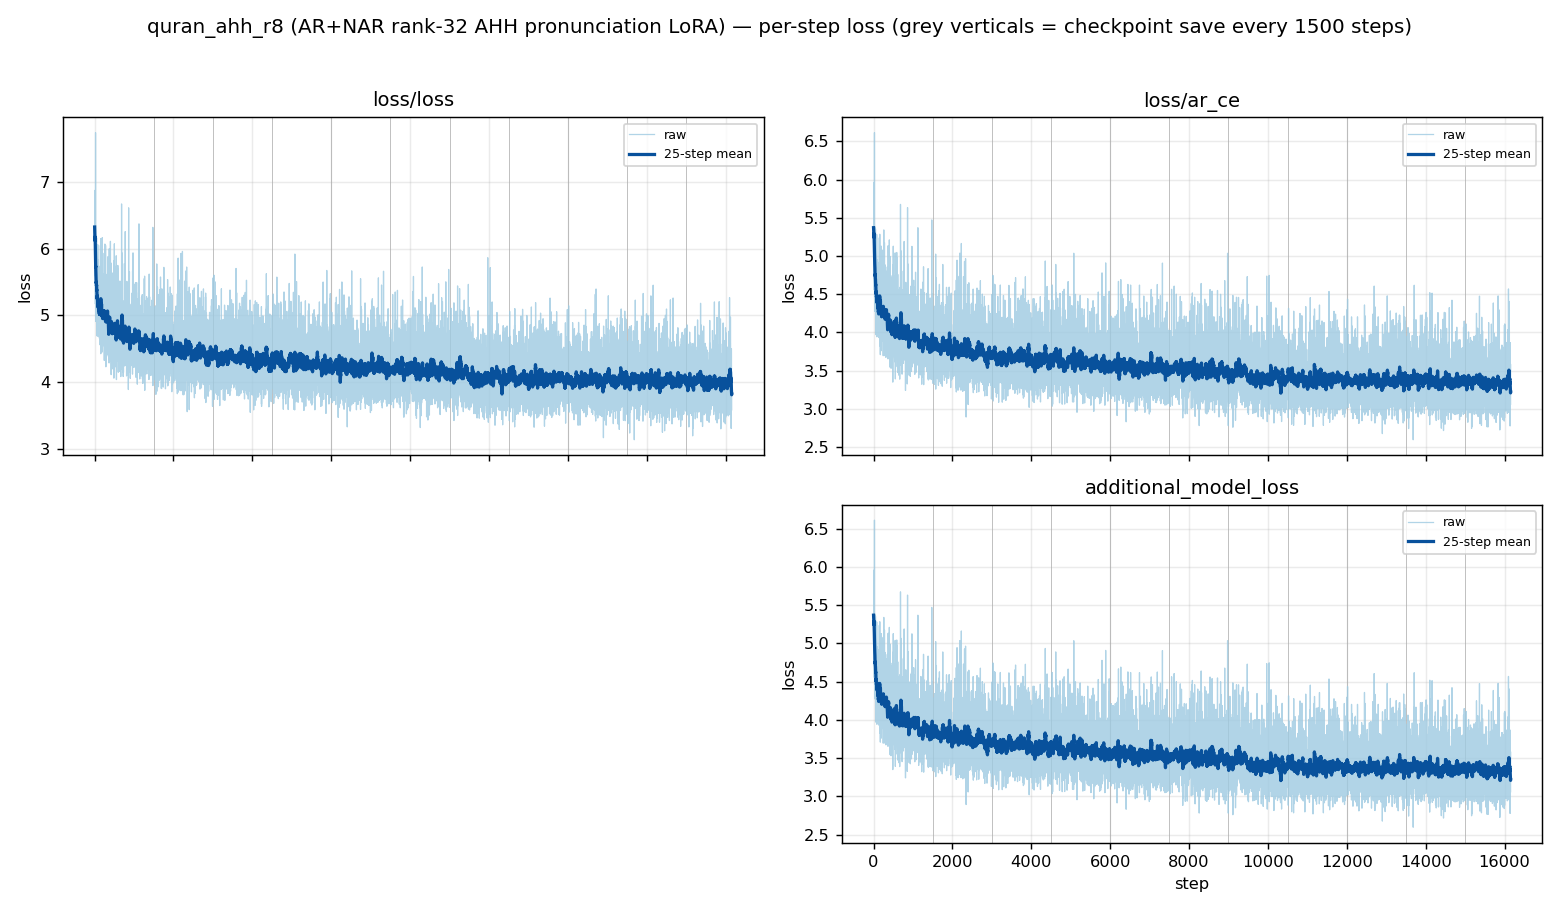
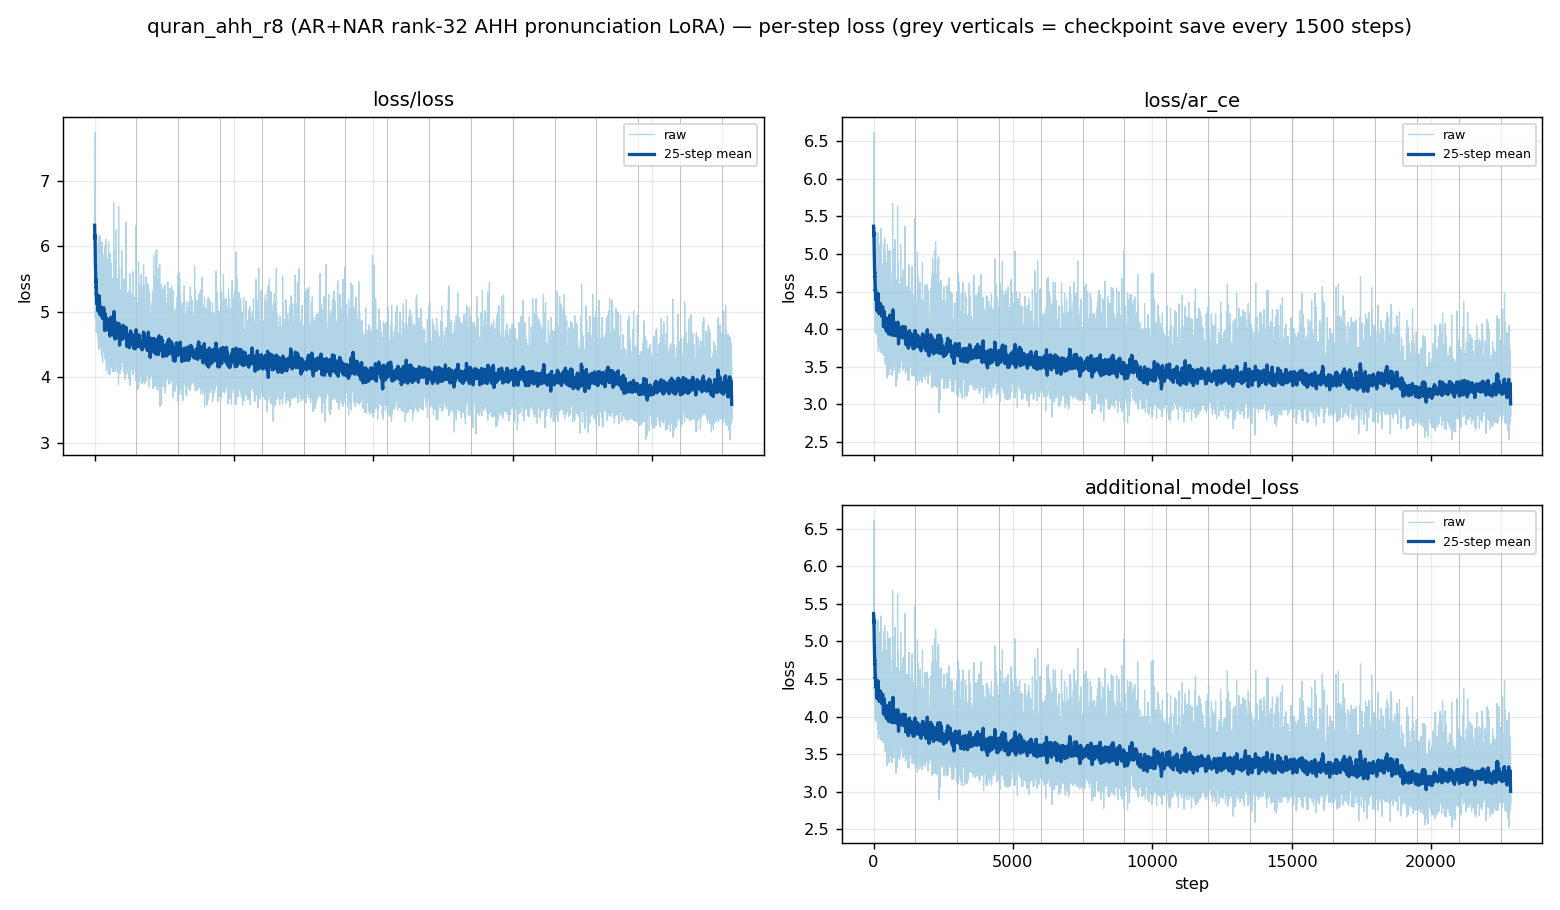
TRAINING_ANALYSIS: quran_ahh_r8_rank32 snapshot @ 22,855/28,467 (80.3%)
- regenerate plots + ANALYSIS.md at step 22,855 (was stale at 16,158)
- loss plateaued since ~19k; checkpoint window table + checkpoints list updated

diff --git a/TRAINING_ANALYSIS/quran_ahh_r8_rank32/ANALYSIS.md b/TRAINING_ANALYSIS/quran_ahh_r8_rank32/ANALYSIS.md
@@ -1,8 +1,9 @@
 # Training analysis — `quran_ahh_r8` **revised** (AR+NAR, rank 32, no KL)
 
-**LIVE SNAPSHOT** — captured **2026-10-05 ~18:46 UTC (21:46 Bahrain)** at **step 16,158 / 28,467
-(56.8%)**. The run is still training (pid 16301, started `2026-10-05T12:35:11`); this is *not* a
-final analysis. Charts produced by the parametrized `TRAINING_ANALYSIS/generate_plots.py`:
+**LIVE SNAPSHOT** — captured **2026-10-06 ~02:27 UTC (05:27 Bahrain)** at **step 22,855 / 28,467
+(80.3%)**. The run is still training (pid 37073; resumed `2026-10-06T01:09:51` from ckpt 19,500
+after the 2026-10-05 pause); this is *not* a final analysis. Charts produced by the parametrized
+`TRAINING_ANALYSIS/generate_plots.py`:
 
 ```bash
 cd /content/maqamrock-yue2-lora-finetuning
@@ -34,13 +35,13 @@ python TRAINING_ANALYSIS/generate_plots.py \
 | Dataset | `/content/quran_ahh_dataset/train` — **9,489 pairs** (AHH filtered, 3 reciters, single caption/clip, 50/50 simple/uthmani stratified); `steps: 28467` = **3 epochs** |
 | GPU | Colab **L4** (23,034 MiB) |
 | Caching | banked `_latent_cache.tar` — launch pass **< 1 s** (cache HIT, no re-encode) |
-| Steps done | **16,158 / 28,467 (56.8%)** at snapshot |
-| Step time | **median 1.249 s** (p10 1.216 / p90 1.744; max 5.804) → ~**0.73 steps/s** (0.73 recent) |
+| Steps done | **22,855 / 28,467 (80.3%)** at snapshot |
+| Step time | **median 1.238 s** (p10 1.207 / p90 1.763; max 4.719) → ~**0.75 steps/s** (0.75 recent) |
 | Save cadence | every **1500** steps (~34 min) |
 | Samples | **none** — grey verticals are checkpoint saves |
-| Checkpoints | `_000001500 … _000015000` (**10**) + `optimizer.pt` (step 15000) — local + GCS (verified); next save = **16500** |
-| GPU (training window) | mem p50 **8,976** / peak **9,394** MiB of 23,034; util p50 **53 %**, p90 100 %; temp p50 77 / max 80 °C; power p50 66 / max 75 W (limit 72) |
-| ETA | **~280 min (4.7 h)** at the recent rate → completion ~**23:26 UTC / 02:26 Bahrain** |
+| Checkpoints | `_000001500 … _000022500` (**15**) + `optimizer.pt` (step 22500) — local + GCS (verified); next save = **24000** |
+| GPU (resumed window) | mem p50 **8,430** / peak **8,730** MiB of 23,034; util p50 **48 %**, p90 100 %; temp p50 76 / max 80 °C; power p50 64 / max 75 W (limit 72) |
+| ETA | **~125 min (2.1 h)** at the recent rate → completion ~**04:32 UTC / 07:32 Bahrain** |
 | Health | clean — no tracebacks/OOM; VRAM flat; steady ~34 min save cadence |
 
 ## Charts
@@ -71,17 +72,23 @@ python TRAINING_ANALYSIS/generate_plots.py \
 | 13001–14000 | 4.0316 | 3.3737 | 0.6578 |
 | 14001–15000 | 4.0225 | 3.3626 | 0.6598 |
 | 15001–16000 | **3.9897** | **3.3396** | 0.6502 |
-| 16001–16158 | 4.0200 | 3.3550 | 0.6650 |
+| 16001–17000 | 3.9827 | 3.3323 | 0.6504 |
+| 17001–18000 | 3.9643 | 3.3166 | 0.6477 |
+| 18001–19000 | 3.9815 | 3.3294 | 0.6521 |
+| 19001–20000 | **3.8272** | **3.1780** | 0.6492 |
+| 20001–21000 | 3.8479 | 3.2006 | 0.6474 |
+| 21001–22000 | 3.8640 | 3.2143 | 0.6498 |
+| 22001–22855 | 3.8637 | 3.2210 | 0.6427 |
 
-First-50 vs last-50 means: `loss/loss` **5.8409 → 4.0739** (−1.767), `loss/ar_ce`
-**5.0275 → 3.3948** (−1.633), `additional_model_loss` identical. `loss/loss` minimum
-**3.1324 @ step 13684**.
+First-50 vs last-50 means: `loss/loss` **5.8409 → 3.8592** (−1.982), `loss/ar_ce`
+**5.0275 → 3.2093** (−1.818), `additional_model_loss` identical. `loss/loss` minimum
+**3.0433 @ step 22800**.
 
 Per-checkpoint 500-step windows (`loss/loss` mean) — the "is later training better?" read:
 
-| from step | 10,500 | 12,000 | 13,500 | 15,000 |
-|---|---|---|---|---|
-| `loss/loss` (next 500) | 4.0672 | 4.0242 | 4.0221 | **4.0027** |
+| from step | 15,000 | 16,500 | 18,000 | 19,500 | 21,000 | 22,500 |
+|---|---|---|---|---|---|---|
+| `loss/loss` (next 500) | 4.0024 | 3.9907 | 4.0014 | **3.8073** | 3.8653 | 3.8620 |
 
 ## Observations / flags
 
@@ -89,13 +96,14 @@ Per-checkpoint 500-step windows (`loss/loss` mean) — the "is later training be
    label, not a second loss). The NAR/flow term is visible only as the residual
    `loss/loss − ar_ce` ≈ **0.65–0.68** (0.776 → 0.674 over the run). Both experts train, but the
    log gives no clean separate read on the NAR.
-2. **`loss/ar_ce` keeps drifting down** (4.16 → 3.34) with a small **wobble around 13k**
-   (12001–13000 3.3674 → 13001–14000 3.3737 → 15001–16000 3.3396) — noise, not a plateau; the
-   latest full bin is the lowest yet.
-3. **Later checkpoints do keep improving on loss** (4.0672 @10.5k → 4.0027 @15k, ~1.6% better) —
-   the basis for the planned **c10500 vs c16500 listen**.
+2. **`loss/ar_ce` has largely flattened.** It drifted to ~3.32 by 17k, dropped to **3.1780**
+   (19001–20000), and has since held at **~3.20–3.22** — the descent has plateaued over the last
+   ~4k steps (a small step-down at the 19,500 resume, then flat).
+3. **Later checkpoints improved, then plateaued.** Next-500 means: 4.0024 @15k → **3.8073 @19.5k**
+   → 3.8620 @22.5k. The step-down coincides with the 19.5k resume; since then it is flat — whether
+   the extra steps help is a listening question, not a loss one.
 4. **`loss/loss` is AR-dominated** — not a quality metric; the held-out free-run is the signal.
-5. **The L4 is not the bottleneck.** util p50 **53 %** (p90 100 %), ~9 GB of 23 GB — data/CPU-bound;
+5. **The L4 is not the bottleneck.** util p50 **48 %** (p90 100 %), ~8.7 GB of 23 GB — data/CPU-bound;
    power saturates at the 72 W limit.
 6. **First 50 are warmup-inflated** (~5.84) and the per-step series is noisy — trust the bins.
    Occasional multi-second spikes (max 5.80 s/step) align with the 1500-step saves.
@@ -108,15 +116,14 @@ improved vs rank-8** but not solved. Genuine improvement; not a plateau.
 
 ## Next — round 2 (T4, c10500 vs c16500)
 
-Adapters already banked: `…/quran_ahh_r8_rank32/convert/{c4500,c7500,c10500}/`. Add **c16500**
-once it saves (convert on the L4) and run:
+Adapters banked: `…/quran_ahh_r8_rank32/convert/{c4500,c7500,c10500,c16500}/`. Run:
 `INFERENCE/quran_pt_probe.py --prefix quran_ahh_r8_rank32/convert --arms c10500,c16500`.
 
 ## Checkpoints (on disk + GCS)
 
-`/content/ai-toolkit/output/quran_ahh_r8/`: `quran_ahh_r8_000001500 … _000015000` (10 ×
-117,500,848 B ≈ 112 MiB) + `optimizer.pt` (step 15000) + `loss_log.db`. GCS mirror verified
-(ten checkpoints + optimizer + a `README.md` marker).
+`/content/ai-toolkit/output/quran_ahh_r8/`: `quran_ahh_r8_000001500 … _000022500` (15 ×
+117,500,848 B ≈ 112 MiB) + `optimizer.pt` (step 22500) + `loss_log.db`. GCS mirror verified
+(15 checkpoints + optimizer + a `README.md` marker).
 
 ## Caveats
 
@@ -129,6 +136,6 @@ once it saves (convert on the L4) and run:
 
 ## Next steps
 
-- Continue to **28,467** (~02:26 Bahrain if the VM stays up).
-- **c10500 vs c16500 T4 probe** (round 2) — the immediate test.
+- Continue to **28,467** (~07:32 Bahrain at the current rate, if the VM stays up).
+- **c10500 vs c16500 T4 probe** (round 2) — `c16500` is now banked; the immediate test.
 - Human blind gate (`ab-blind-eval`) before any merge.
